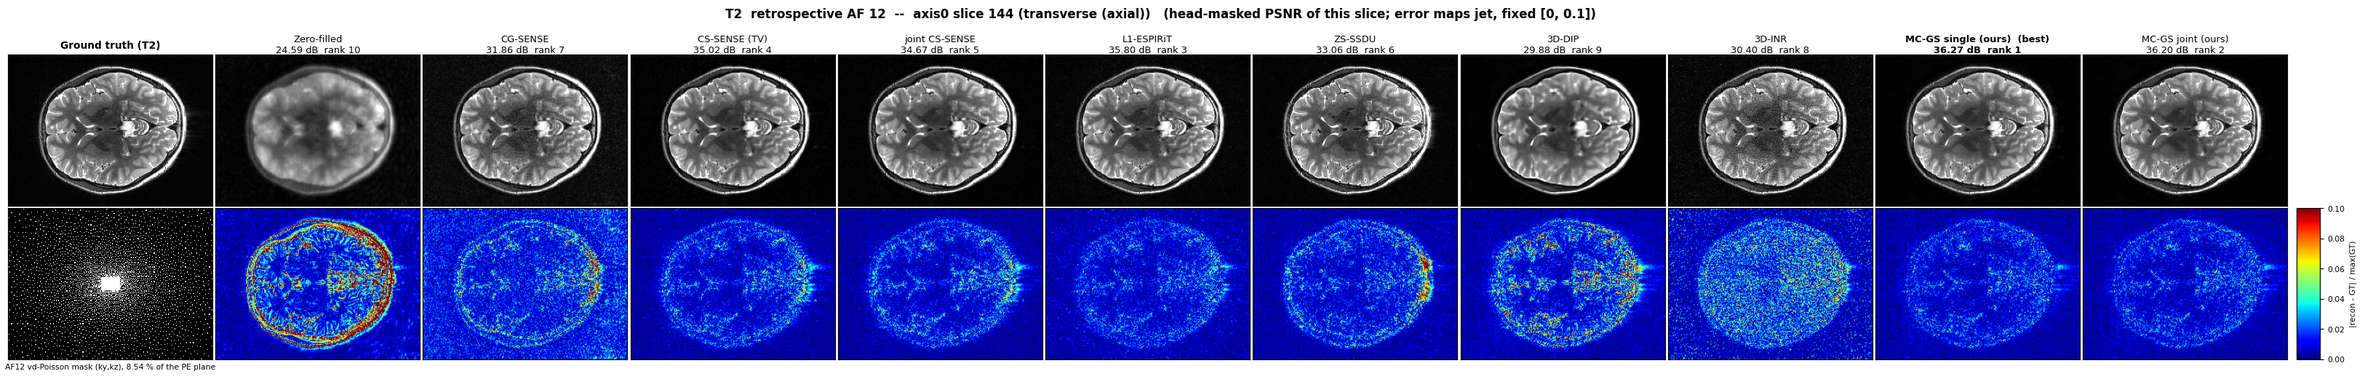
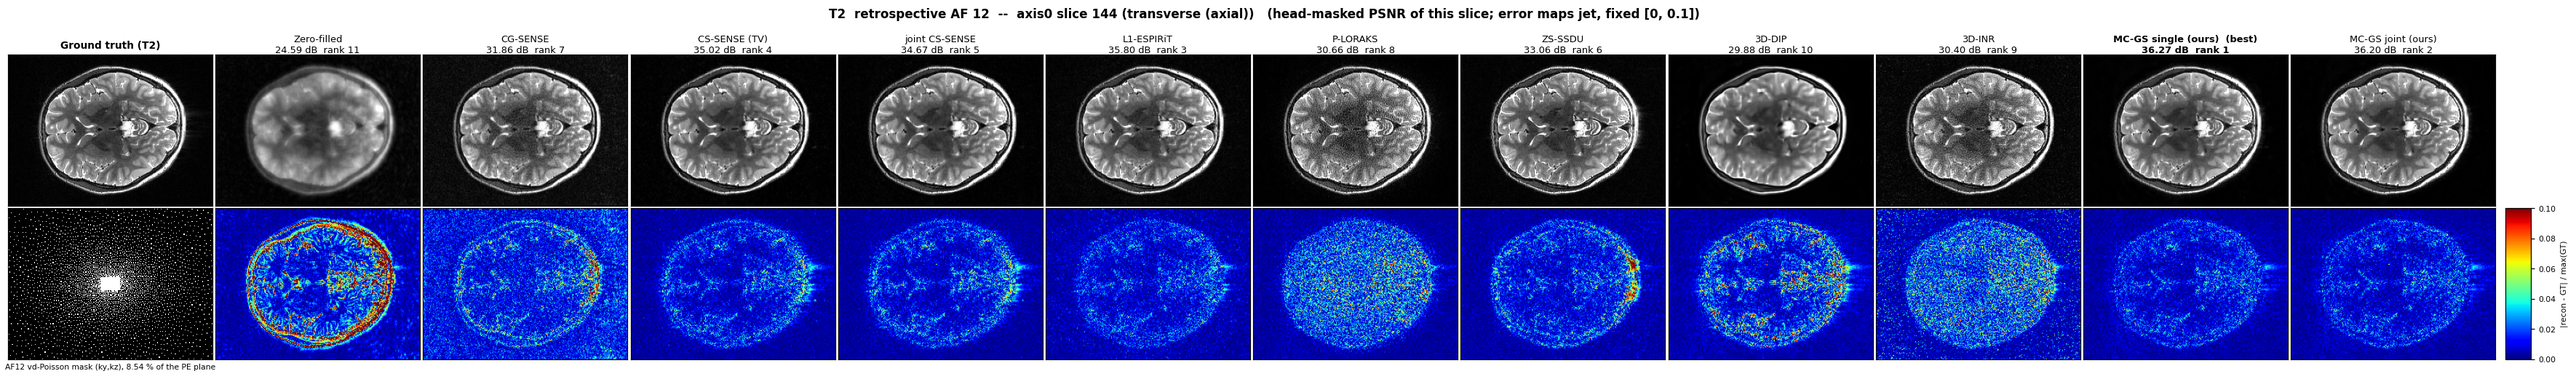
archive: P-LORAKS T2 in the T1+T2 tables, sweep and panels (rank 40, 8.0 h); the stale P-LORAKS status paragraph replaced in the three topic READMEs

diff --git a/t1t2_af12_retro/README.md b/t1t2_af12_retro/README.md
@@ -209,7 +209,8 @@ metrics, so the learned arms and the classical arms are directly comparable.
 | MC-GS single (old cold start) | 37.743 | 0.9162 | 0.01995 | 0.6361 | 33.497 | 0.9319 | 0.0932 | 0.866 | 0.0138 |  |
 | MC-GS joint (old cold start) | 37.833 | 0.9365 | 0.01954 | 0.6478 | 33.121 | 0.9295 | 0.1005 | 0.802 | 0.0116 |  |
 | CG-SENSE | 35.919 | 0.7829 | 0.03036 | 0.7270 | 32.509 | 0.9210 | 0.1181 | 0.812 | 0.0145 | 7 min |
-| 3D-INR | 35.622 | 0.8584 | 0.03250 | 0.9478 | 31.021 | 0.8606 | 0.1053 | **1.233** | 0.0264 | 121 min |
+| P-LORAKS | 36.462 | 0.9110 | 0.02679 | 0.8482 | 31.343 | 0.8565 | 0.0921 | **1.317** | 0.0303 |  |
+| 3D-INR | 35.622 | 0.8584 | 0.03250 | 0.9478 | 31.021 | 0.8606 | 0.1053 | 1.233 | 0.0264 | 121 min |
 | 3D-DIP | 35.071 | 0.8763 | 0.03690 | 0.8131 | 29.708 | 0.8635 | 0.1888 | 0.641 | 0.0090 | 57 min |
 | ZF | 30.548 | 0.8659 | 0.10456 | 0.9198 | 25.193 | 0.7013 | 0.6406 | 0.277 | **0.0042** | 6 min |
 
@@ -375,8 +376,12 @@ The compact figures (`scripts/fig_slice_v2.py`, `scripts/fig_planes_v2.py`) now 
 converged TV, joint TV and L1-ESPIRiT columns and show those ranks as they are.
 
 P-LORAKS (LORAKS v2 toolbox, per-readout-slice, S-matrix, R = 2) is the fourth arm of this
-revisit; its rank is being selected on a six-slice subset of hyw T1 at the time of writing and
-its rows enter `logs/summary.tsv` through `scripts/summarize.py` once the full runs land.
+revisit; its rank (40) was selected on a six-slice subset of hyw T1 (`logs/ploraks/ranksweep_R2.log`). The full runs
+(rank 40, R = 2, at most 50 iterations, 48 MATLAB workers per channel) took 6.7 h for T1 and 8.0 h for T2, and
+both rows are in the tables. P-LORAKS is mid-table on whole-volume PSNR (35.512 / 36.462) but near
+the bottom on head PSNR (30.623 / 31.343). Its sharpness ratio (1.24 / 1.32) and grain ratio
+(2.08 / 1.21) show far more noise inside the head than in the ground truth; the
+whole-volume gauge dilutes that with background.
 Scripts: `recon_classical.py --suffix` (sweeps), `recon_joint_cssense.py`, `recon_l1espirit.py`,
 `ploraks_export.py` / `run_ploraks.m` / `run_ploraks_ranks.m` / `ploraks_import.py`; sweep logs
 in `logs/sweeps/`, per-run json in `logs/`.

diff --git a/t1flair_af12_retro/README.md b/t1flair_af12_retro/README.md
@@ -149,8 +149,10 @@ The compact figures (`scripts/fig_slice_v2.py`, `scripts/fig_planes_v2.py`) now 
 converged TV, joint TV and L1-ESPIRiT columns and show those ranks as they are.
 
 P-LORAKS (LORAKS v2 toolbox, per-readout-slice, S-matrix, R = 2) is the fourth arm of this
-revisit; its rank is being selected on a six-slice subset of hyw T1 at the time of writing and
-its rows enter `logs/summary.tsv` through `scripts/summarize.py` once the full runs land.
+revisit; its rank (40) was selected on a six-slice subset of hyw T1 (`../T1T2_AF12_retro/logs/ploraks/ranksweep_R2.log`).
+The T1 row here is the hyw T1 full run of the T1+T2 topic (the same acquisition; 6.7 h). The FLAIR run (rank 40,
+R = 2, 48 MATLAB workers) started 2026-09-11 00:38 and takes 7–8 h; its row enters `logs/summary.tsv` through
+`scripts/summarize.py` when it lands.
 Scripts: `recon_classical.py --suffix` (sweeps), `recon_joint_cssense.py`, `recon_l1espirit.py`,
 `ploraks_export.py` / `run_ploraks.m` / `run_ploraks_ranks.m` / `ploraks_import.py`; sweep logs
 in `logs/sweeps/`, per-run json in `logs/`.

diff --git a/t1flair_af12_v3_jiangyizhou/README.md b/t1flair_af12_v3_jiangyizhou/README.md
@@ -179,8 +179,9 @@ The compact figures (`scripts/fig_slice_v2.py`, `scripts/fig_planes_v2.py`) now 
 converged TV, joint TV and L1-ESPIRiT columns and show those ranks as they are.
 
 P-LORAKS (LORAKS v2 toolbox, per-readout-slice, S-matrix, R = 2) is the fourth arm of this
-revisit; its rank is being selected on a six-slice subset of hyw T1 at the time of writing and
-its rows enter `logs/summary.tsv` through `scripts/summarize.py` once the full runs land.
+revisit; its rank (40) was selected on a six-slice subset of hyw T1 (`../T1T2_AF12_retro/logs/ploraks/ranksweep_R2.log`)
+and is applied unchanged here. The T1 run (rank 40, R = 2, 48 MATLAB workers) started 2026-09-11 00:38 and takes
+7–8 h; the FLAIR run follows it. Their rows enter `logs/summary.tsv` through `scripts/summarize.py` when they land.
 Scripts: `recon_classical.py --suffix` (sweeps), `recon_joint_cssense.py`, `recon_l1espirit.py`,
 `ploraks_export.py` / `run_ploraks.m` / `run_ploraks_ranks.m` / `ploraks_import.py`; sweep logs
 in `logs/sweeps/`, per-run json in `logs/`.
